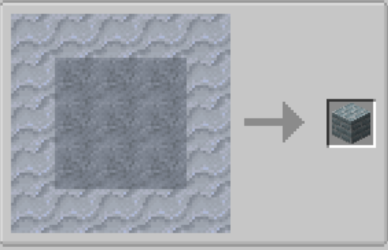
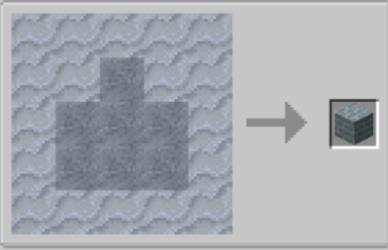
Major hotfix for bugs that I should have caught

diff --git a/src/main/java/com/eerussianguy/firmalife/blocks/BlockOven.java b/src/main/java/com/eerussianguy/firmalife/blocks/BlockOven.java
@@ -3,6 +3,7 @@ package com.eerussianguy.firmalife.blocks;
 import java.util.Random;
 import javax.annotation.Nonnull;
 import javax.annotation.Nullable;
+import javax.annotation.ParametersAreNonnullByDefault;
 
 import net.minecraft.block.Block;
 import net.minecraft.block.material.MapColor;
@@ -26,7 +27,9 @@ import net.minecraftforge.items.CapabilityItemHandler;
 import net.minecraftforge.items.IItemHandler;
 import net.minecraftforge.items.ItemHandlerHelper;
 
+import com.eerussianguy.firmalife.ConfigFL;
 import com.eerussianguy.firmalife.te.TEOven;
+import mcp.MethodsReturnNonnullByDefault;
 import net.dries007.tfc.api.capability.size.IItemSize;
 import net.dries007.tfc.api.capability.size.Size;
 import net.dries007.tfc.api.capability.size.Weight;
@@ -43,9 +46,10 @@ import static com.eerussianguy.firmalife.init.StatePropertiesFL.CURED;
 import static net.dries007.tfc.Constants.RNG;
 import static net.minecraft.block.BlockHorizontal.FACING;
 
+@ParametersAreNonnullByDefault
+@MethodsReturnNonnullByDefault
 public class BlockOven extends Block implements ILightableBlock, IItemSize
 {
-
     public BlockOven()
     {
         super(Material.ROCK, MapColor.RED_STAINED_HARDENED_CLAY);
@@ -173,48 +177,27 @@ public class BlockOven extends Block implements ILightableBlock, IItemSize
         {
             if (!state.getValue(LIT))
             {
-                ItemStack held = player.getHeldItem(hand); // in order to light, it doesn't need to be cured, but the structure should exist
+                ItemStack held = player.getHeldItem(hand);
+                TEOven te = Helpers.getTE(world, pos, TEOven.class);
+                if (te == null) return false;
                 if (isValidHorizontal(world, pos, false) && hasChimney(world, pos, false) && ItemFireStarter.onIgnition(held))
                 {
-                    if (ItemFireStarter.onIgnition(held))
-                    {
-                        TFCTriggers.LIT_TRIGGER.trigger((EntityPlayerMP) player, state.getBlock()); // Trigger lit block
-                        TEOven te = Helpers.getTE(world, pos, TEOven.class);
-                        if (te != null)
-                        {
-                            world.setBlockState(pos, state.withProperty(LIT, true));
-                            te.light();
-                        }
-                    }
+                    TFCTriggers.LIT_TRIGGER.trigger((EntityPlayerMP) player, state.getBlock()); // Trigger lit block
+                    world.setBlockState(pos, state.withProperty(LIT, true));
+                    te.light();
                     return true;
                 }
-                TEOven te = Helpers.getTE(world, pos, TEOven.class);
                 IItemHandler inventory = te.getCapability(CapabilityItemHandler.ITEM_HANDLER_CAPABILITY, null);
-                if (!player.isSneaking() && inventory != null && !OreDictionaryHelper.doesStackMatchOre(held, "peel") && !held.isEmpty())
+                if (inventory == null) return false;
+                boolean handEmpty = held.isEmpty();
+                if (!handEmpty && !player.isSneaking() && !OreDictionaryHelper.doesStackMatchOre(held, "peel"))
                 {
-                    for (int i = 0; i < 3; i++) // put stuff in the oven, will try every slot
-                    {
-                        ItemStack slotStack = inventory.getStackInSlot(i);
-                        if (i < 2 && FuelManager.isItemFuel(held) && slotStack.isEmpty()) // fuel slots
-                        {
-                            inventory.insertItem(i, held, false);
-                            if (!player.isCreative())
-                                held.shrink(1);
-                            te.markForSync();
-                            return true;
-                        }
-                        else if (i == 2 && slotStack.isEmpty()) // this is the recipe slot
-                        {
-                            inventory.insertItem(i, held, false);
-                            if (!player.isCreative())
-                                held.shrink(1);
-                            te.markForSync();
-                            return true;
-                        }
-                    }
+                    ItemStack leftover = ItemHandlerHelper.insertItem(inventory, held.splitStack(1), false);
+                    ItemHandlerHelper.giveItemToPlayer(player, leftover);
+                    te.markForSync();
                     return true;
                 }
-                else if (inventory != null && (held.isEmpty() || OreDictionaryHelper.doesStackMatchOre(held, "peel")))
+                else if (handEmpty || OreDictionaryHelper.doesStackMatchOre(held, "peel"))
                 {
                     for (int i = 2; i >= 0; i--) // take stuff out. starts with the main slot and cycles backwards
                     {
@@ -224,7 +207,7 @@ public class BlockOven extends Block implements ILightableBlock, IItemSize
                             ItemStack takeStack = inventory.extractItem(i, 1, false);
                             ItemHandlerHelper.giveItemToPlayer(player, takeStack);
                             te.markForSync();
-                            if (!OreDictionaryHelper.doesStackMatchOre(held, "peel") && state.getValue(CURED))
+                            if (ConfigFL.General.BALANCE.peelNeeded && !OreDictionaryHelper.doesStackMatchOre(held, "peel") && state.getValue(CURED))
                                 player.attackEntityFrom(DamageSourcesTFC.GRILL, 2.0F); // damage player if they don't use peel
                             return true;
                         }

diff --git a/src/main/java/com/eerussianguy/firmalife/registry/BlocksFL.java b/src/main/java/com/eerussianguy/firmalife/registry/BlocksFL.java
@@ -74,6 +74,7 @@ public class BlocksFL
     private static ImmutableList<BlockCropDead> allDeadCrops = Helpers.getNull();
     private static ImmutableList<BlockStemCrop> allCropBlocks = Helpers.getNull();
     private static ImmutableList<BlockJackOLantern> allJackOLanterns = Helpers.getNull();
+    private static ImmutableList<ItemBlock> allInventoryIBs = Helpers.getNull();
 
     public static ImmutableList<ItemBlock> getAllIBs()
     {
@@ -128,6 +129,10 @@ public class BlocksFL
         return allJackOLanterns;
     }
 
+    public static ImmutableList<ItemBlock> getAllInventoryIBs()
+    {
+        return allInventoryIBs;
+    }
 
     @SubscribeEvent
     public static void registerBlocks(RegistryEvent.Register<Block> event)
@@ -147,6 +152,7 @@ public class BlocksFL
         ImmutableList.Builder<BlockCropDead> deadCrops = ImmutableList.builder();
         ImmutableList.Builder<BlockStemCrop> cropBlocks = ImmutableList.builder();
         ImmutableList.Builder<BlockJackOLantern> jackOLanterns = ImmutableList.builder();
+        ImmutableList.Builder<ItemBlock> invIBs = ImmutableList.builder();
 
         for (FruitTreeFL fruitTree : FruitTreeFL.values())
         {
@@ -181,11 +187,11 @@ public class BlocksFL
         normalIBs.add(register(r, "leaf_mat", new BlockLeafMat(), CT_DECORATIONS));
         normalIBs.add(register(r, "cinnamon_log", new BlockCinnamonLog(), CT_WOOD));
         normalIBs.add(register(r, "cinnamon_leaves", new BlockCinnamonLeaves(), CT_WOOD));
-        normalIBs.add(register(r, "cinnamon_sapling", new BlockCinnamonSapling(), CT_WOOD));
+        register(r, "cinnamon_sapling", new BlockCinnamonSapling(), CT_WOOD);
         normalIBs.add(register(r, "greenhouse_wall", new BlockGreenhouseWall(), CT_DECORATIONS));
         normalIBs.add(register(r, "greenhouse_roof", new BlockGreenhouseRoof(), CT_DECORATIONS));
         normalIBs.add(register(r, "climate_station", new BlockClimateStation(), CT_DECORATIONS));
-        normalIBs.add(register(r, "quad_planter", new BlockQuadPlanter(), CT_DECORATIONS));
+        register(r, "quad_planter", new BlockQuadPlanter(), CT_DECORATIONS);
         register(r, "greenhouse_door", new BlockGreenhouseDoor(), CT_DECORATIONS);
 
         for (BlockJackOLantern.Carving carving : BlockJackOLantern.Carving.values())
@@ -212,6 +218,7 @@ public class BlocksFL
         allNormalIBs.forEach((x) -> {
             IBs.add(new ItemBlockTFC(x));
         });
+        allInventoryIBs = invIBs.build();
         allFoodIBs = foodIBs.build();
         allFoodIBs.forEach((x) -> {
             IBs.add(new ItemBlockRot(x));
@@ -226,7 +233,9 @@ public class BlocksFL
         });
         allFruitSaps = fruitSaps.build();
         allFruitSaps.forEach((x) -> {
-            IBs.add(new ItemBlockTFC(x));
+            ItemBlock ib = new ItemBlockTFC(x);
+            IBs.add(ib);
+            invIBs.add(ib);
         });
         allFruitFences = fruitFences.build();
         allFruitFences.forEach((x) -> {

diff --git a/src/main/java/com/eerussianguy/firmalife/registry/ItemsFL.java b/src/main/java/com/eerussianguy/firmalife/registry/ItemsFL.java
@@ -129,6 +129,10 @@ public class ItemsFL
     public static final ItemFoodFL DARK_CHOCOLATE = Helpers.getNull();
     @GameRegistry.ObjectHolder("milk_chocolate")
     public static final ItemFoodFL MILK_CHOCOLATE = Helpers.getNull();
+    @GameRegistry.ObjectHolder("quad_planter")
+    public static final ItemBlock ITEM_QUAD_PLANTER = Helpers.getNull();
+    @GameRegistry.ObjectHolder("cinnamon_sapling")
+    public static final ItemBlock ITEM_CINNAMON_SAPLING = Helpers.getNull();
 
     private static ImmutableList<Item> allEasyItems;
 
@@ -249,12 +253,13 @@ public class ItemsFL
         easyItems.add(register(r, "fruit_leaf", fruit_leaf, CT_MISC));
         OreDictionary.registerOre("fruitLeaf", fruit_leaf); //todo: Use our OreDict helper
 
-        easyItems.add(register(r, "planter", new ItemMisc(Size.NORMAL, Weight.MEDIUM), CT_MISC));
         easyItems.add(register(r, "vanilla", new ItemMisc(Size.VERY_SMALL, Weight.VERY_LIGHT), CT_MISC));
         easyItems.add(register(r, "cinnamon_bark", new ItemMisc(Size.VERY_SMALL, Weight.VERY_LIGHT), CT_MISC));
         easyItems.add(register(r, "cinnamon", new ItemMisc(Size.VERY_SMALL, Weight.VERY_LIGHT), CT_MISC));
         easyItems.add(register(r, "ground_cinnamon", new ItemMisc(Size.VERY_SMALL, Weight.VERY_LIGHT), CT_MISC));
         easyItems.add(register(r, "greenhouse_door", new ItemGreenhouseDoor(BlocksFL.GREENHOUSE_DOOR), CT_DECORATIONS));
+        easyItems.add(register(r, "quad_planter", new ItemBlock(BlocksFL.QUAD_PLANTER), CT_DECORATIONS));
+        easyItems.add(register(r, "cinnamon_sapling", new ItemBlock(BlocksFL.CINNAMON_SAPLING), CT_DECORATIONS));
 
         ItemMisc cpole = new ItemMisc(Size.SMALL, Weight.MEDIUM);
         easyItems.add(register(r, "cinnamon_pole", cpole, CT_MISC));

diff --git a/src/main/java/com/eerussianguy/firmalife/ClientRegisterEventsFL.java b/src/main/java/com/eerussianguy/firmalife/ClientRegisterEventsFL.java
@@ -67,10 +67,15 @@ public class ClientRegisterEventsFL
         for (ItemFruitDoor i : ItemsFL.getAllFruitDoors())
             ModelLoader.setCustomModelResourceLocation(i, 0, new ModelResourceLocation(i.getRegistryName().toString()));
         for (ItemBlock ib : BlocksFL.getAllIBs())
+            ModelLoader.setCustomModelResourceLocation(ib, 0, new ModelResourceLocation(ib.getRegistryName().toString(), "normal"));
+        for (ItemBlock ib : BlocksFL.getAllInventoryIBs())
             ModelLoader.setCustomModelResourceLocation(ib, 0, new ModelResourceLocation(ib.getRegistryName().toString()));
         for (BlockFruitTreeLeaves leaves : BlocksFL.getAllFruitLeaves())
             ModelLoader.setCustomStateMapper(leaves, new StateMap.Builder().ignore(BlockFruitTreeLeaves.DECAYABLE).ignore(BlockFruitTreeLeaves.HARVESTABLE).build());
         ModelLoader.setCustomModelResourceLocation(ItemsFL.CRACKED_COCONUT, 0, new ModelResourceLocation(ItemsFL.CRACKED_COCONUT.getRegistryName(), "inventory"));
+        ModelLoader.setCustomModelResourceLocation(ItemsFL.ITEM_CINNAMON_SAPLING, 0, new ModelResourceLocation(ItemsFL.ITEM_CINNAMON_SAPLING.getRegistryName().toString()));
+        ModelLoader.setCustomModelResourceLocation(ItemsFL.ITEM_QUAD_PLANTER, 0, new ModelResourceLocation(ItemsFL.ITEM_QUAD_PLANTER.getRegistryName().toString(), "inventory"));
+
 
         //Mallet mold
         ItemMetalMalletMold item = ItemsFL.malletMold;

diff --git a/src/main/java/com/eerussianguy/firmalife/registry/TFCRegistry.java b/src/main/java/com/eerussianguy/firmalife/registry/TFCRegistry.java
@@ -69,7 +69,7 @@ public class TFCRegistry
     public static void onRegisterKnappingRecipeEvent(RegistryEvent.Register<KnappingRecipe> event)
     {
         event.getRegistry().registerAll(
-            new KnappingRecipeSimple(KnappingType.CLAY, true, new ItemStack(BlocksFL.OVEN), "XXXXX", "X   X", "X   X", "X   X", "XXXXX").setRegistryName("clay_oven"),
+            new KnappingRecipeSimple(KnappingType.CLAY, true, new ItemStack(BlocksFL.OVEN), "XXXXX", "XX XX", "X   X", "X   X", "XXXXX").setRegistryName("clay_oven"),
             new KnappingRecipeSimple(KnappingType.CLAY, true, new ItemStack(BlocksFL.OVEN_CHIMNEY), "XX XX", "X   X", "X   X", "X   X", "X   X").setRegistryName("clay_oven_chimney"),
             new KnappingRecipeSimple(KnappingType.CLAY, true, new ItemStack(BlocksFL.OVEN_WALL), "    X", "   XX", "   XX", "  XXX", "  XXX").setRegistryName("clay_oven_wall"),
             new KnappingRecipeSimple(KnappingType.CLAY, true, new ItemStack(ItemsFL.UNFIRED_MALLET_MOLD), "XXXXX", "     ", "   X ", "XXXXX", "XXXXX").setRegistryName("unfired_mallet_mold"),

diff --git a/src/main/java/com/eerussianguy/firmalife/ConfigFL.java b/src/main/java/com/eerussianguy/firmalife/ConfigFL.java
@@ -39,6 +39,9 @@ public class ConfigFL
         @Config.Comment("Compatibility Settings")
         @Config.LangKey("config." + MOD_ID + ".general.compat")
         public static final CompatCFG COMPAT = new CompatCFG();
+        @Config.Comment("Balance Settings")
+        @Config.LangKey("config." + MOD_ID + ".general.balance")
+        public static final BalanceCFG BALANCE = new BalanceCFG();
 
         public static final class WorldgenCFG
         {
@@ -69,6 +72,13 @@ public class ConfigFL
             @Config.Comment("Enable logging of some actions Firmalife takes (such as recipe removals)")
             @Config.LangKey("config." + MOD_ID + "general.compat.logging")
             public boolean logging = true;
+        }
+
+        public static final class BalanceCFG
+        {
+            @Config.Comment("Require peel to take stuff out of the oven?")
+            @Config.LangKey("config." + MOD_ID + "general.balance.peelNeeded")
+            public boolean peelNeeded = true;
         }
     }
 }

diff --git a/src/main/java/com/eerussianguy/firmalife/init/Fruit.java b/src/main/java/com/eerussianguy/firmalife/init/Fruit.java
@@ -23,7 +23,7 @@ public enum Fruit
     ELDERBERRY(ItemFoodTFC.get(Food.ELDERBERRY), true, DRIED_FRUIT_CATEGORY),
     GOOSEBERRY(ItemFoodTFC.get(Food.GOOSEBERRY), true, DRIED_FRUIT_SATURATION),
     GREEN_APPLE(ItemFoodTFC.get(Food.GREEN_APPLE), true, DRIED_FRUIT_DECAY),
-    LEMON(ItemFoodTFC.get(Food.GREEN_APPLE), true, DRIED_FRUIT_DECAY),
+    LEMON(ItemFoodTFC.get(Food.LEMON), true, DRIED_FRUIT_DECAY),
     OLIVE(ItemFoodTFC.get(Food.OLIVE), true, DRIED_FRUIT_DECAY),
     ORANGE(ItemFoodTFC.get(Food.ORANGE), true, DRIED_FRUIT_DECAY),
     PEACH(ItemFoodTFC.get(Food.PEACH), true, DRIED_FRUIT_SATURATION),

diff --git a/src/main/java/com/eerussianguy/firmalife/te/TEOven.java b/src/main/java/com/eerussianguy/firmalife/te/TEOven.java
@@ -94,11 +94,7 @@ public class TEOven extends TEInventory implements ITickable
     @Override
     public boolean isItemValid(int slot, ItemStack stack)
     {
-        if (slot == SLOT_FUEL_1 || slot == SLOT_FUEL_2)
-        {
-            return FuelManager.isItemFuel(stack);
-        }
-        return true;
+        return (slot < SLOT_MAIN) == FuelManager.isItemFuel(stack);
     }
 
     @Override
